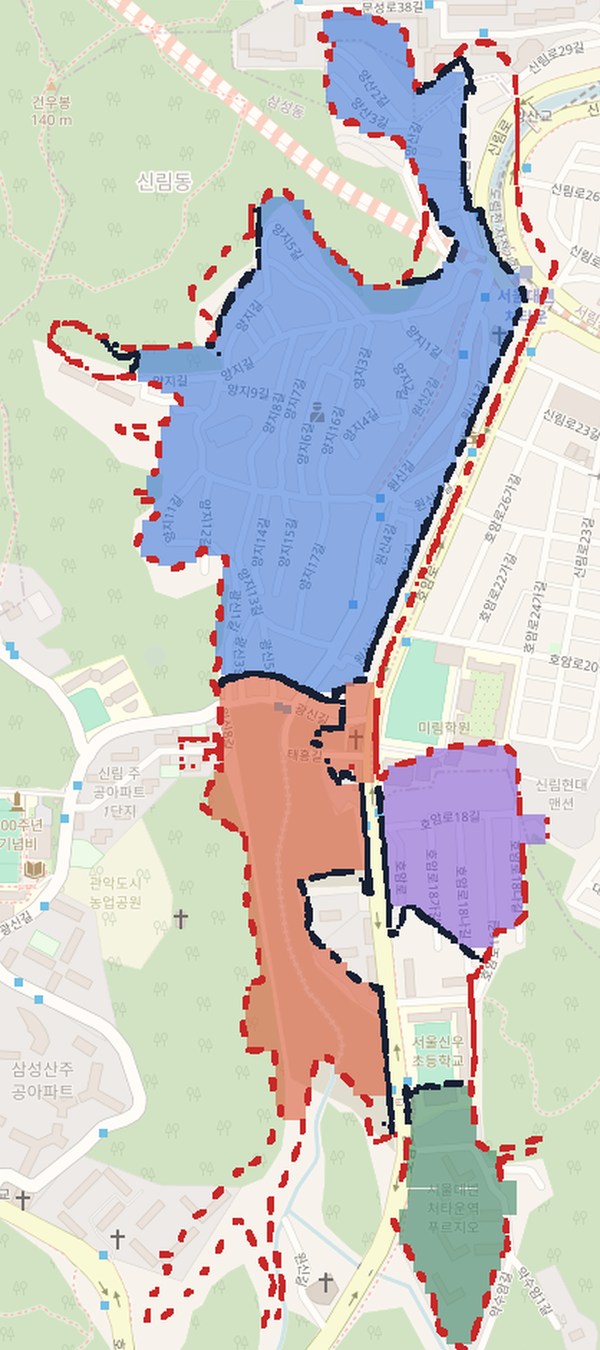
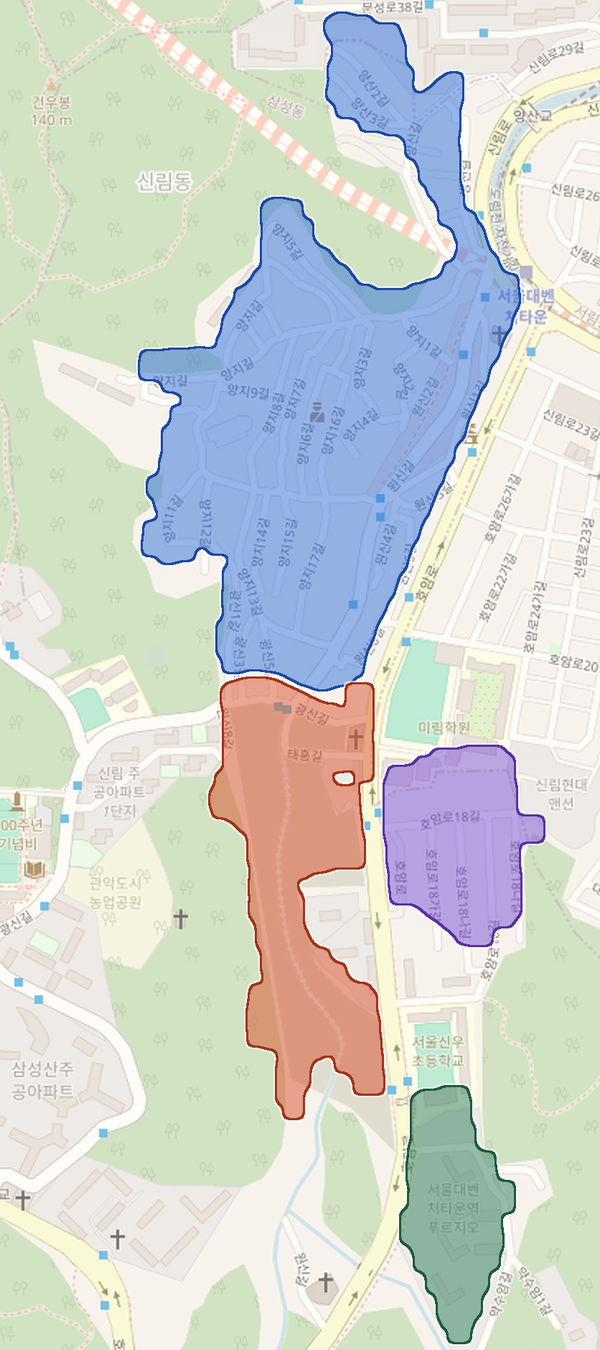
Clean Sillim zone map: drop raster dashed lines, smooth solid zone outlines
Claude-Session: https://claude.ai/code/session_01TVq9LzjZFYSSJLZgCBoE65

diff --git a/index.html b/index.html
@@ -105,7 +105,7 @@ footer{margin-top:48px;color:var(--tx3);font-size:12px}
   <div class="cards">
     <div class="card"><h3>📚 신림 재개발 카드뉴스 · <code>오를 곳</code> · #광고 도서협찬</h3>
       <p><b>신림 재개발, 구역마다 단계가 달라요</b> (6장 · 2장 = 구역 지도 · 릴스와 함께)</p>
-      <div class="thumbs"><a href="instagram/cards/2026-11-sillim/card-sillim-1.png?v=2"><img src="instagram/cards/2026-11-sillim/card-sillim-1.png?v=2" alt="1"></a><a href="instagram/cards/2026-11-sillim/card-sillim-2.png?v=3"><img src="instagram/cards/2026-11-sillim/card-sillim-2.png?v=3" alt="2"></a><a href="instagram/cards/2026-11-sillim/card-sillim-3.png?v=2"><img src="instagram/cards/2026-11-sillim/card-sillim-3.png?v=2" alt="3"></a><a href="instagram/cards/2026-11-sillim/card-sillim-4.png?v=2"><img src="instagram/cards/2026-11-sillim/card-sillim-4.png?v=2" alt="4"></a><a href="instagram/cards/2026-11-sillim/card-sillim-5.png?v=2"><img src="instagram/cards/2026-11-sillim/card-sillim-5.png?v=2" alt="5"></a><a href="instagram/cards/2026-11-sillim/card-sillim-6.png?v=2"><img src="instagram/cards/2026-11-sillim/card-sillim-6.png?v=2" alt="6"></a></div>
+      <div class="thumbs"><a href="instagram/cards/2026-11-sillim/card-sillim-1.png?v=2"><img src="instagram/cards/2026-11-sillim/card-sillim-1.png?v=2" alt="1"></a><a href="instagram/cards/2026-11-sillim/card-sillim-2.png?v=4"><img src="instagram/cards/2026-11-sillim/card-sillim-2.png?v=4" alt="2"></a><a href="instagram/cards/2026-11-sillim/card-sillim-3.png?v=2"><img src="instagram/cards/2026-11-sillim/card-sillim-3.png?v=2" alt="3"></a><a href="instagram/cards/2026-11-sillim/card-sillim-4.png?v=2"><img src="instagram/cards/2026-11-sillim/card-sillim-4.png?v=2" alt="4"></a><a href="instagram/cards/2026-11-sillim/card-sillim-5.png?v=2"><img src="instagram/cards/2026-11-sillim/card-sillim-5.png?v=2" alt="5"></a><a href="instagram/cards/2026-11-sillim/card-sillim-6.png?v=2"><img src="instagram/cards/2026-11-sillim/card-sillim-6.png?v=2" alt="6"></a></div>
       <ul><li>캡션·고정 댓글: <a href="instagram/cards/2026-11-sillim/README.html"><b>README</b></a></li><li>릴스 대본 수정본: <a href="instagram/2026-11-sillim-reel-cards.html">릴스·카드 기획</a></li><li>블로그: <a href="naver/paste/2026-11-sillim.html"><b>📋 붙여넣기용</b></a></li></ul></div>
     <div class="card"><h3>11/6(금) 카드뉴스 · <code>계약금</code> · 오늘 밤 9시</h3>
       <p><b>대출 안 나오면 계약금 돌려받나요?</b> (4장)</p>

diff --git a/naver/paste/img/src/blogmap.html b/naver/paste/img/src/blogmap.html
@@ -26,6 +26,6 @@ svg{position:absolute;inset:0;z-index:1}</style><style>
 <span class="lm b" style="left:1000px;top:290px">〰 도림천</span>
 <span class="lm" style="left:600px;top:2150px">⛰ 관악산 방향 ↓</span>
 </div>
-<div class="ft"><div class="lg"><span><i style="background:#2F6FDB"></i>1구역</span><span><i style="background:#D9502C"></i>2구역</span><span><i style="background:#2E7D5B"></i>3구역</span><span><i style="background:#7A4FD6"></i>4구역</span><em>붉은 점선 = 촉진지구 · 남색 = 구역 경계</em></div>
+<div class="ft"><div class="lg"><span><i style="background:#2F6FDB"></i>1구역</span><span><i style="background:#D9502C"></i>2구역</span><span><i style="background:#2E7D5B"></i>3구역</span><span><i style="background:#7A4FD6"></i>4구역</span><em>색 영역 = 정비구역 (개략 위치)</em></div>
 <p class="src">구역 경계: 관악구 공고 제2026-1274호 결정도(변경안)를 축척(1:5,000)에 맞춰 실제 지도에 겹친 개략 위치예요. 정확한 필지 경계는 고시 도면으로 확인하세요.<br>바탕 지도 © OpenStreetMap contributors · 세대수·단계: 관악구 현황(2026.10.26) · 4구역은 계획 수치</p>
 <p class="brand">착한언니복덕방 @goodsister4080</p></div></div></body></html>
